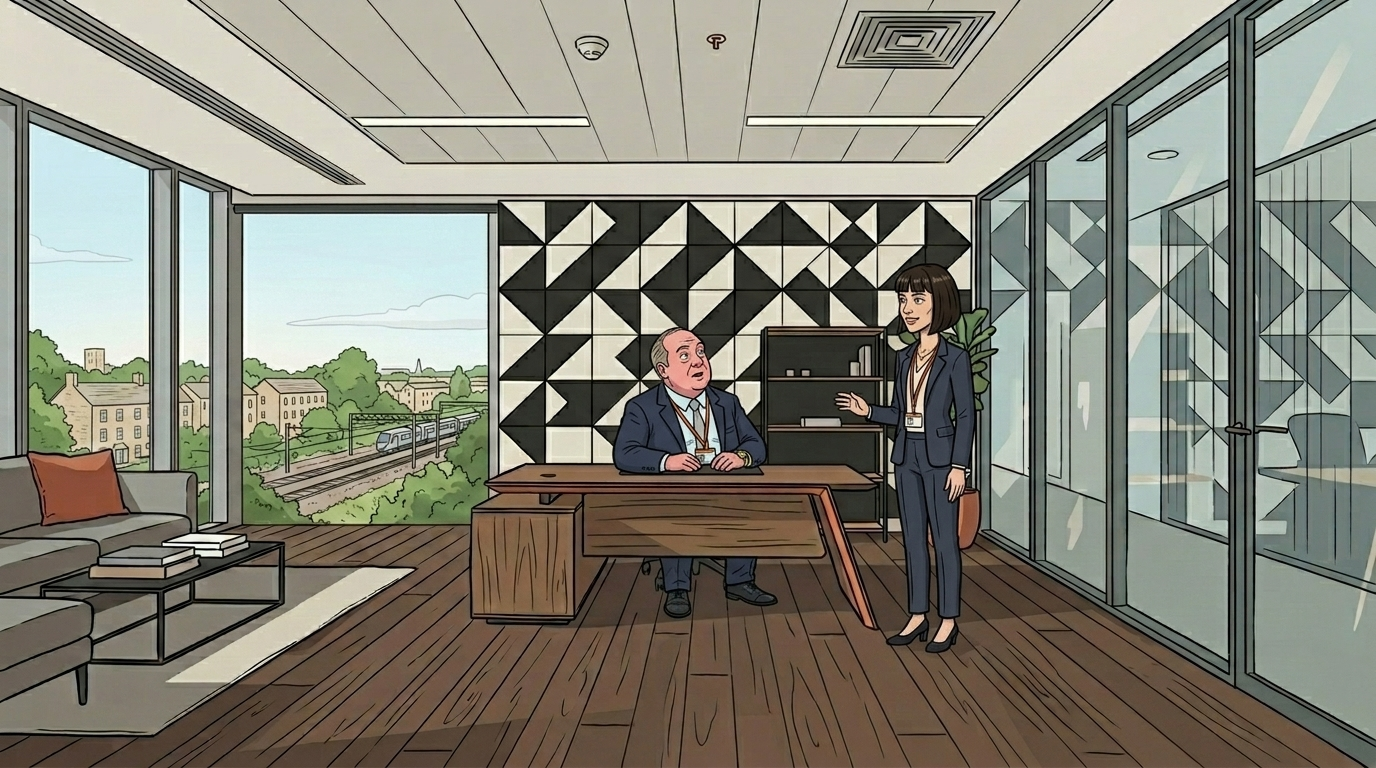
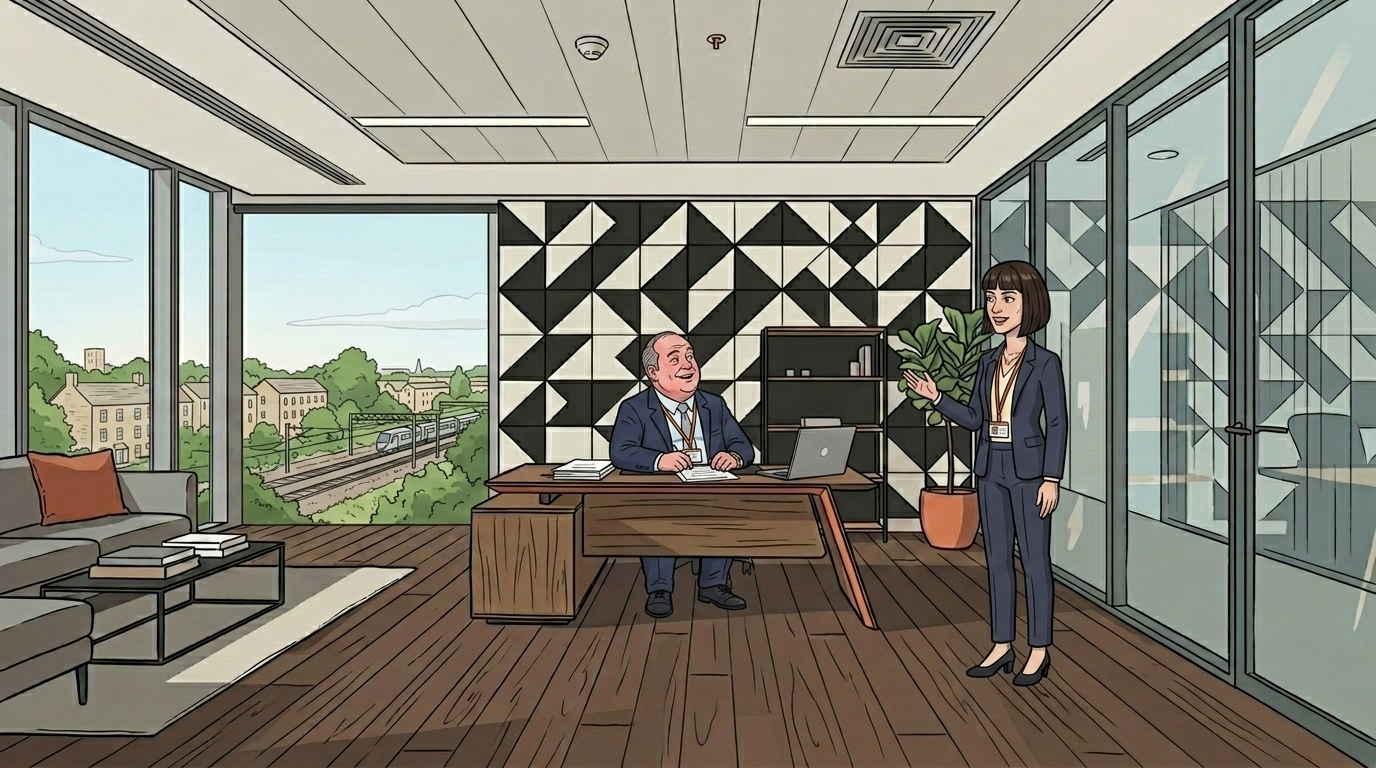
feat: sync approved frames F04-F17 and extend CDP browser-automation toolkit
Frames F04-F17 were generated/approved earlier this session but never
committed. Also adds cdp_key/cdp_hover/cdp_clear_composer/cdp_append
scripts and documents two gotchas hit while working F19: composer
coordinates must be in CSS pixels (divide screenshot-pixel estimates
by devicePixelRatio), and typing a literal "@" in the composer opens
a mention picker that hijacks the rest of a keystroke-typed prompt.

Changed region(s): [[0.375, 0.3125, 0.7812, 0.9062], [0.4688, 0.7188, 0.5625, 0.8125]]

diff --git a/cdp_clear_composer.js b/cdp_clear_composer.js
@@ -1,0 +1,23 @@
+const { chromium } = require('playwright');
+const path = require('path');
+async function main() {
+  const outFile = process.argv[2] || 'cdp_clear.png';
+  const browser = await chromium.connectOverCDP('http://127.0.0.1:9222');
+  const ctx = browser.contexts()[0];
+  const page = ctx.pages().find(p => p.url().includes('labs.google')) || ctx.pages()[0];
+  const rect = await page.evaluate(() => {
+    const el = document.querySelector('[contenteditable="true"]');
+    if (!el) return null;
+    const r = el.getBoundingClientRect();
+    return {x: r.x + r.width/2, y: r.y + r.height/2};
+  });
+  if (!rect) { console.error('composer not found'); process.exit(1); }
+  await page.mouse.click(rect.x, rect.y);
+  await page.keyboard.press('Control+A');
+  await page.keyboard.press('Backspace');
+  await page.waitForTimeout(300);
+  await page.screenshot({ path: path.join('C:/AI/Circle the Square', outFile) });
+  console.log('Cleared, saved to', outFile);
+  await browser.close();
+}
+main().catch(e => { console.error(e.message); process.exit(1); });

diff --git a/cdp_append.js b/cdp_append.js
@@ -1,0 +1,23 @@
+const { chromium } = require('playwright');
+const path = require('path');
+async function main() {
+  const text = process.argv[2];
+  const outFile = process.argv[3] || 'cdp_append.png';
+  const browser = await chromium.connectOverCDP('http://127.0.0.1:9222');
+  const ctx = browser.contexts()[0];
+  const page = ctx.pages().find(p => p.url().includes('labs.google')) || ctx.pages()[0];
+  const rect = await page.evaluate(() => {
+    const el = document.querySelector('[contenteditable="true"]');
+    const r = el.getBoundingClientRect();
+    return {x: r.x + r.width/2, y: r.y + r.height - 5};
+  });
+  await page.mouse.click(rect.x, rect.y);
+  await page.keyboard.press('Control+End');
+  await page.waitForTimeout(200);
+  await page.keyboard.type(text, { delay: 25 });
+  await page.waitForTimeout(300);
+  await page.screenshot({ path: path.join('C:/AI/Circle the Square', outFile) });
+  console.log('Appended, saved to', outFile);
+  await browser.close();
+}
+main().catch(e => { console.error(e.message); process.exit(1); });

diff --git a/cdp_hover.js b/cdp_hover.js
@@ -1,0 +1,15 @@
+const { chromium } = require('playwright');
+const path = require('path');
+async function main() {
+  const [x, y] = process.argv.slice(2, 4).map(Number);
+  const outFile = process.argv[4] || 'cdp_hover.png';
+  const browser = await chromium.connectOverCDP('http://127.0.0.1:9222');
+  const ctx = browser.contexts()[0];
+  const page = ctx.pages().find(p => p.url().includes('labs.google')) || ctx.pages()[0];
+  await page.mouse.move(x, y);
+  await page.waitForTimeout(500);
+  await page.screenshot({ path: path.join('C:/AI/Circle the Square', outFile) });
+  console.log('Saved hover screenshot to', outFile);
+  await browser.close();
+}
+main().catch(e => { console.error(e.message); process.exit(1); });

diff --git a/cdp_typeraw.js b/cdp_typeraw.js
@@ -1,0 +1,15 @@
+const { chromium } = require('playwright');
+const path = require('path');
+async function main() {
+  const text = process.argv[2];
+  const outFile = process.argv[3] || 'cdp_typeraw.png';
+  const browser = await chromium.connectOverCDP('http://127.0.0.1:9222');
+  const ctx = browser.contexts()[0];
+  const page = ctx.pages().find(p => p.url().includes('labs.google')) || ctx.pages()[0];
+  await page.keyboard.type(text, { delay: 30 });
+  await page.waitForTimeout(500);
+  await page.screenshot({ path: path.join('C:/AI/Circle the Square', outFile) });
+  console.log('Saved to', outFile);
+  await browser.close();
+}
+main().catch(e => { console.error(e.message); process.exit(1); });

diff --git a/cdp_key.js b/cdp_key.js
@@ -1,0 +1,11 @@
+const { chromium } = require('playwright');
+async function main() {
+  const key = process.argv[2] || 'Escape';
+  const browser = await chromium.connectOverCDP('http://127.0.0.1:9222');
+  const ctx = browser.contexts()[0];
+  const page = ctx.pages().find(p => p.url().includes('labs.google')) || ctx.pages()[0];
+  await page.keyboard.press(key);
+  console.log('Pressed', key);
+  await browser.close();
+}
+main().catch(e => { console.error(e.message); process.exit(1); });

diff --git a/.agents/rules/browser_automation_cdp.md b/.agents/rules/browser_automation_cdp.md
@@ -43,6 +43,46 @@ scripts — Flow's UI selectors drift and you need to see state to recover.
 | `cdp_save_canvas.js <out.png> [idx]` | Extract the editor's `<canvas>` pixel buffer directly, bypassing Chrome's download manager (see below) |
 | `cdp_downloads_check2.js` | List Chrome's download-manager entries (name/state) via `chrome://downloads` shadow DOM |
 | `cdp_downloads_retry.js` | Click Retry on any deleted download entries (not reliable — see below) |
+| `cdp_key.js <key> ` | Press a single key (e.g. `Escape`) in the page |
+| `cdp_clear_composer.js [out.png]` | Click the composer, Ctrl+A, Backspace |
+| `cdp_append.js "<text>" [out.png]` | Click composer, Ctrl+End, type — use to continue text after a partial/interrupted type instead of retyping from scratch |
+| `cdp_hover.js x y [out.png]` | Move the mouse to CSS-pixel coords without clicking, then screenshot — use to reveal hover-only UI (e.g. a tile's favorite/menu icons) |
+
+## Composer coordinates are CSS pixels, not screenshot pixels (found 2026-08-15, F19)
+Every `cdp_click_coord.js`/`cdp_zoom.js` coordinate is in **CSS pixels** (`getBoundingClientRect()`
+space), but a screenshot PNG is `devicePixelRatio` times bigger (1.25x observed at a 1603×986 viewport,
+i.e. a 2004×1233 PNG). Estimating a click point by eye off the PNG and passing it straight through is
+the single most common cause of "click landed on the wrong element" in this whole workflow — it looks
+like it should work, silently hits a neighboring element instead, and doesn't error. Two ways to avoid
+it: (1) divide your on-image pixel estimate by the DPR (`cdp_eval.js "({vw: window.innerWidth, vh:
+window.innerHeight, dpr: window.devicePixelRatio})"` to get the exact factor for the current window),
+or (2) skip estimation entirely and pull the real coordinates from the DOM, e.g.
+`cdp_eval.js "(() => { const r = document.querySelector('SELECTOR').getBoundingClientRect(); return {x: Math.round(r.x+r.width/2), y: Math.round(r.y+r.height/2)} })()"`
+— option 2 is more reliable whenever the target has a stable selector (composer input, a named button).
+
+## The asset-attach modal has its own internal tab bar — don't text-match "Characters" (found 2026-08-15, F19)
+The "+" attach modal has its own left-hand tab list (All/Images/Videos/Voices/Characters/Uploads)
+that **visually overlaps** the app's persistent left nav, which has the same labels. `cdp_click.js
+"Characters"` matches the outer nav link first and navigates the whole page away from the composer,
+silently dropping any chips already attached (though re-opening "+" afterwards does still show them,
+so nothing is lost — just extra round trips). Use coordinates (or a selector scoped to the modal)
+for the modal's internal tabs instead of text-matching a label that also exists outside the modal.
+Likewise, clicking a character's name inside the modal's Characters list can hit the **background
+library tile** instead of the modal row (same name, same text) and navigate into that character's
+full edit page — happened twice in a row here. Verify with a screenshot that you're still in the modal
+(not navigated to `.../character/<id>`) before clicking "Add to Prompt".
+
+## Typing a literal "@" in the composer hijacks the rest of your keystrokes (found 2026-08-15, F19)
+Flow's composer treats `@` as the start of an inline mention — as soon as it's typed, an autocomplete/
+search overlay opens and **steals subsequent keystrokes into its own search box**, not the composer.
+A long `cdp_typeraw.js` call containing `@jan` typed the first ~80% of the prompt fine, then silently
+diverted the rest into the mention picker's search field (which showed "No results found" for the
+diverted tail). The prompt in the composer ends up truncated with no error. Since Character identity is
+already locked by attaching the Character entity via the "+" picker (see above), there's no need to
+also type `@name` in the prose — write "Jan" / "he" instead and avoid literal `@` in typed text
+entirely. If you do need the real mention feature, press `Escape` (`cdp_key.js Escape`) to dismiss the
+popup immediately after the `@`, then continue typing plain text — do not try to type through it in one
+long `keyboard.type()` call.
 
 All scripts pick `ctx.pages().find(p => p.url().includes('labs.google'))`, so it's safe to have other
 tabs open in the same profile.
